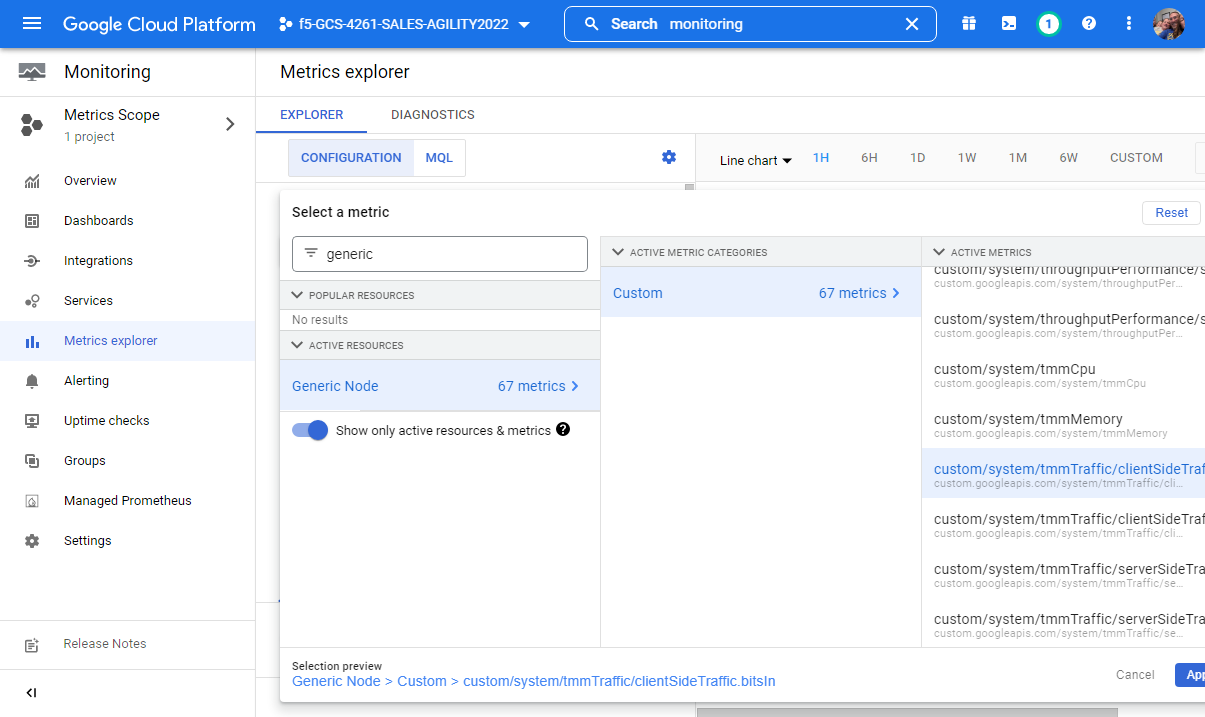
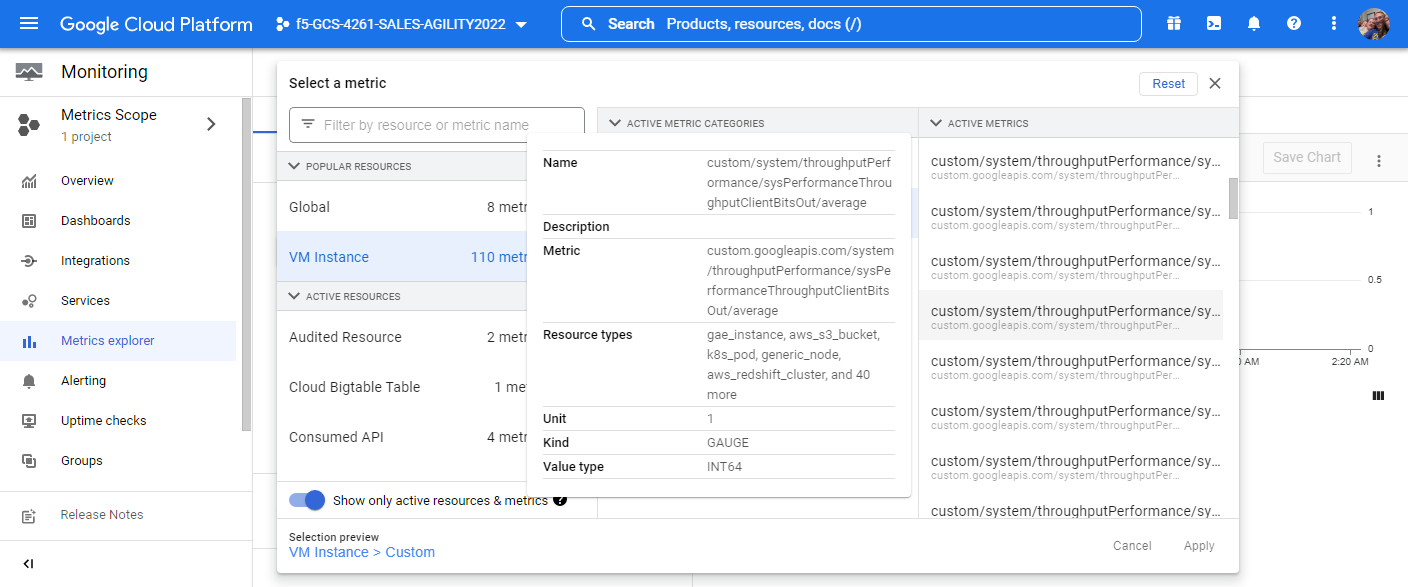
TS FInal corrections

diff --git a/docs/class14/module09/lab1.rst b/docs/class14/module09/lab1.rst
@@ -21,8 +21,8 @@ From Monitoring on the side panel => Metrics explorer.
    :scale: 60%
    :alt: GCloud Metrics explorer
 
-Click on query editor in the editor type fetch generic_node ::
-custom/system/cpu. Then click Run Query.
+Click on box below Resource & Metric, select VM Instance --> Custom --> 
+custom/system/throughputPerformance/sysPerformanceThroughputClientBitsOut/average and press apply.
 
 .. image:: ./images/Lab4.2_GCloudConsoleSelectMetric.png
    :scale: 60%
